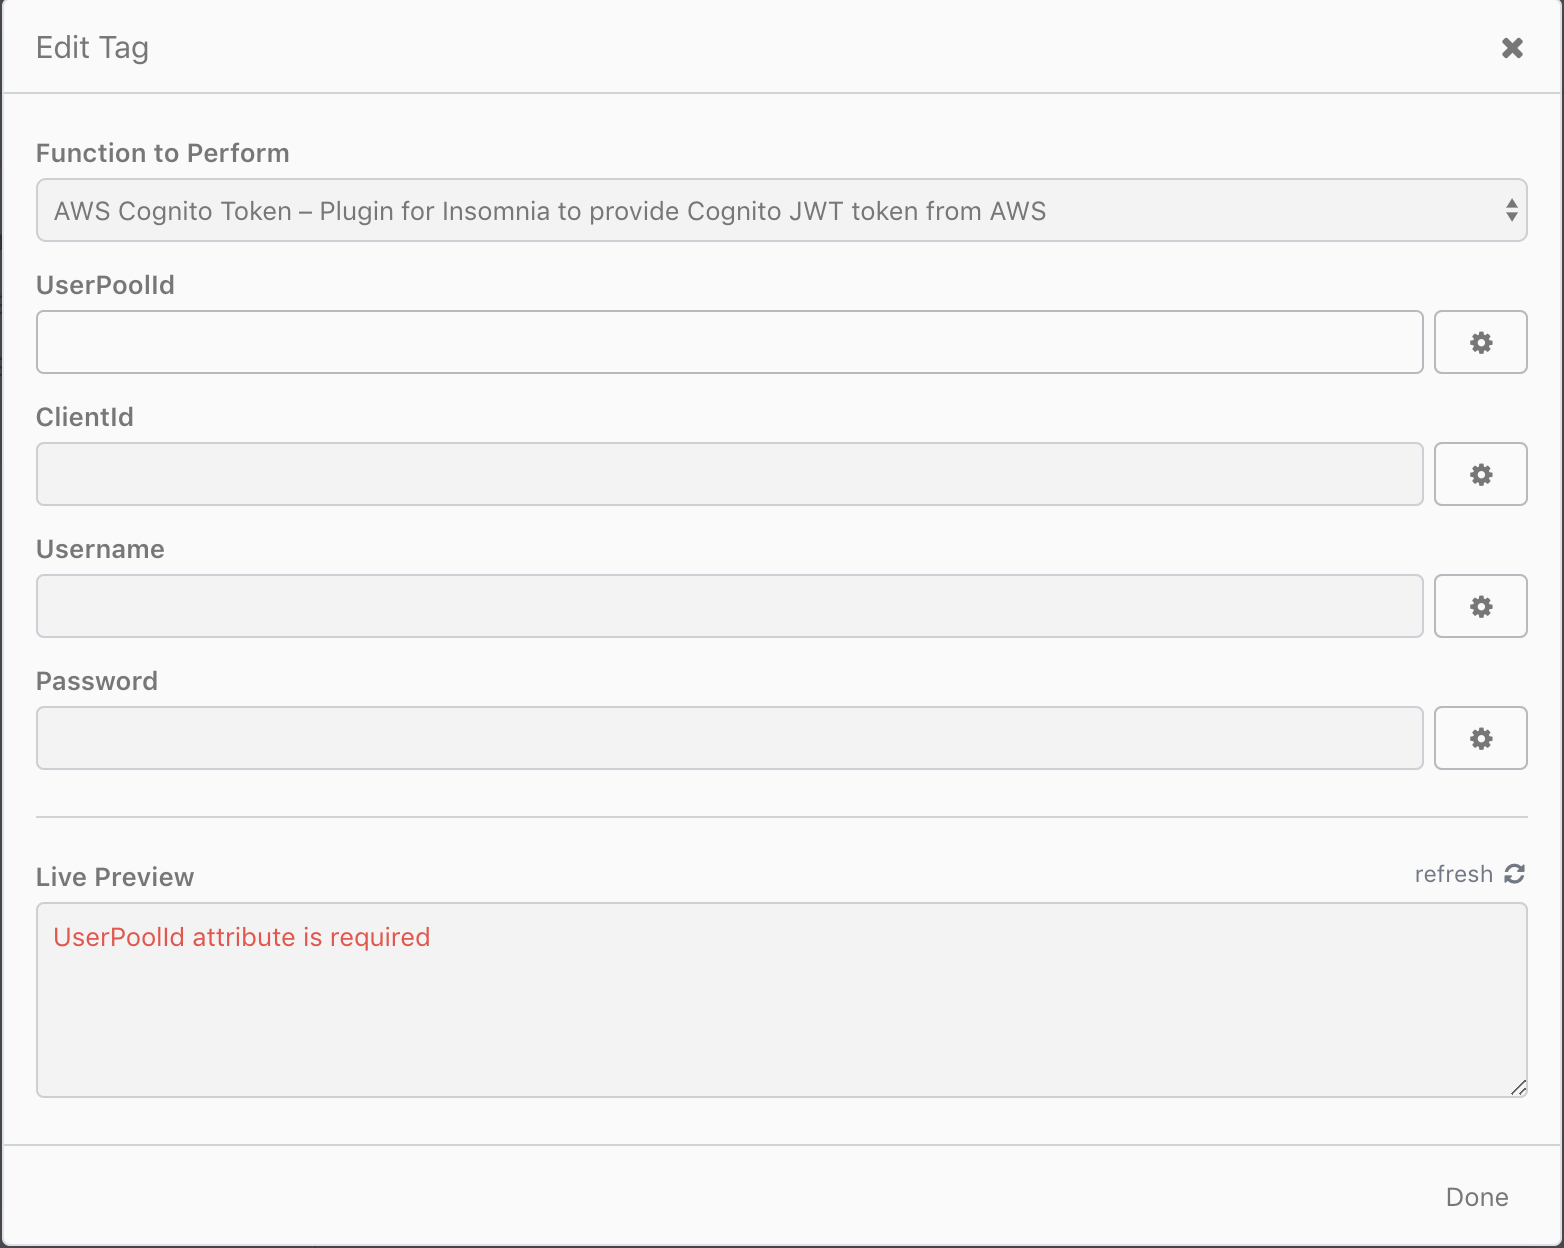
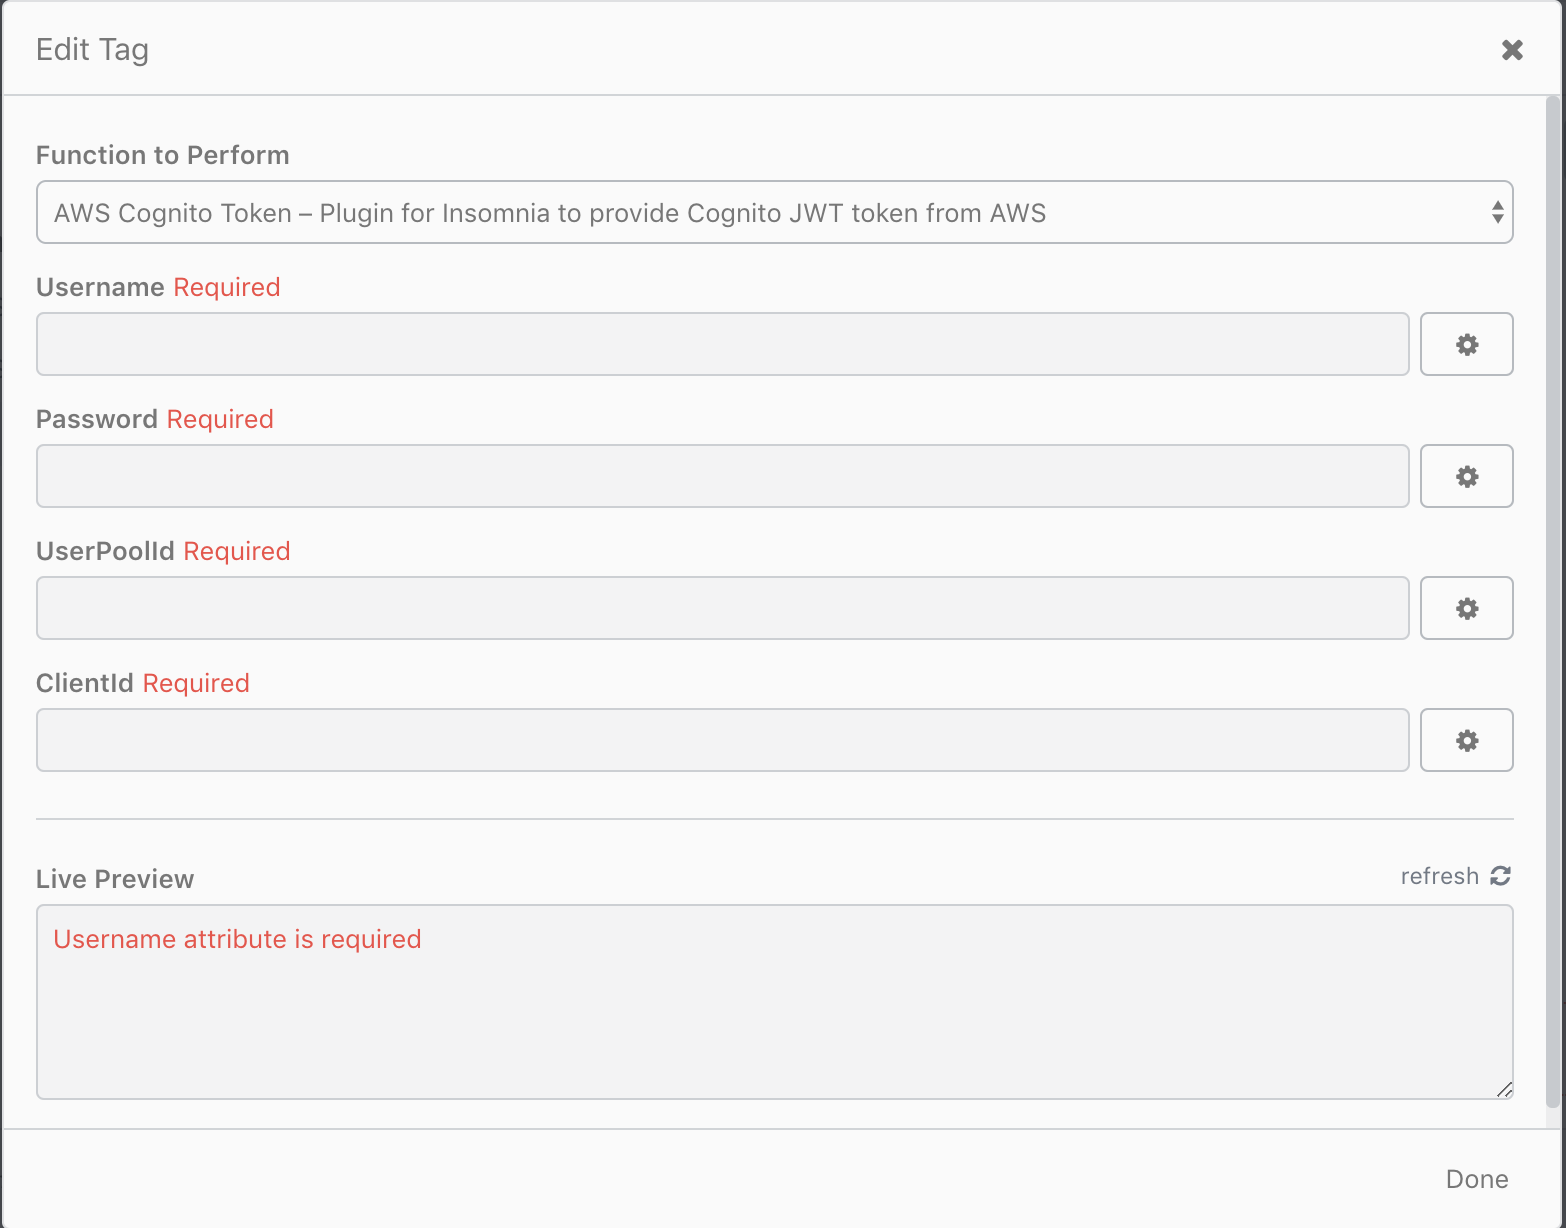
Change tag order and store key

Changed region(s): [[0.0, 0.0, 1.0, 1.0], [0.0307, 0.4023, 0.89, 0.4642], [0.0307, 0.0309, 0.0921, 0.0619]]

diff --git a/src/plugin.js b/src/plugin.js
@@ -3,7 +3,7 @@ const jwtDecode = require('jwt-decode');
 const CryptoJS = require('crypto-js')
 
 // Get JWT Token from Cognito
-const session = ({UserPoolId, ClientId, Username, Password}) => new Promise((resolve, reject) => {
+const session = ({ Username, Password, UserPoolId, ClientId }) => new Promise((resolve, reject) => {
   new AWSCognito.CognitoUser({
     Username,
     Pool: new AWSCognito.CognitoUserPool({
@@ -57,8 +57,8 @@ const errorToken = error => {
   };
   const stringifiedHeader = CryptoJS.enc.Utf8.parse(JSON.stringify(header));
   const encodedHeader = base64url(stringifiedHeader);
-  // If error we keep it for 5 min
-  const exp = (Date.now().valueOf() / 1000) + 300
+  // If error we keep it for 1 min
+  const exp = (Date.now().valueOf() / 1000) + 60
   const data = {
     error,
     exp
@@ -69,21 +69,22 @@ const errorToken = error => {
 }
 
 // Main run function
-const run = async (context, UserPoolId, ClientId, Username, Password) => {
-  if (!UserPoolId) {
-    throw new Error('UserPoolId attribute is required');
-  }
-  if (!ClientId) {
-    throw new Error('ClientId attribute is required');
-  }
+const run = async (context, Username, Password, UserPoolId, ClientId) => {
   if (!Username) {
     throw new Error('Username attribute is required');
   }
   if (!Password) {
     throw new Error('Password attribute is required');
   }
-  const data = JSON.stringify({ UserPoolId, ClientId, Username, Password })
-  const token = await context.store.getItem(data)
+  if (!UserPoolId) {
+    throw new Error('UserPoolId attribute is required');
+  }
+  if (!ClientId) {
+    throw new Error('ClientId attribute is required');
+  }
+
+  const key = [ Username, Password, UserPoolId, ClientId ].join('::')
+  const token = await context.store.getItem(key)
   if (token && validToken(token)) {
     if (jwtDecode(token).error){
       // Display error
@@ -93,16 +94,15 @@ const run = async (context, UserPoolId, ClientId, Username, Password) => {
     return token
   } else {
     // Compute a new token
-    const params = JSON.parse(data)
     try {
-      const token = await session(params)
-      await context.store.setItem(data, token)
+      const token = await session({ Username, Password, UserPoolId, ClientId})
+      await context.store.setItem(key, token)
       return token
     }
     catch(error){
       // To keep thing simle we create a fake JWT token with error message
       const token = errorToken(error.message)
-      await context.store.setItem(data, token)
+      await context.store.setItem(key, token)
       return error.message
     }
   }
@@ -114,21 +114,26 @@ module.exports.templateTags = [{
   description: 'Plugin for Insomnia to provide Cognito JWT token from AWS',
   args: [
     {
-      displayName: 'UserPoolId',
-      type: 'string'
-    },
-    {
-      displayName: 'ClientId',
-      type: 'string'
-    },
-    {
       displayName: 'Username',
-      type: 'string'
+      type: 'string',
+      validate: arg => (arg ? '' : 'Required')
     },
     {
       displayName: 'Password',
-      type: 'string'
+      type: 'string',
+      validate: arg => (arg ? '' : 'Required')
     },
+    {
+      displayName: 'UserPoolId',
+      type: 'string',
+      validate: arg => (arg ? '' : 'Required')
+    },
+    {
+      displayName: 'ClientId',
+      type: 'string',
+      validate: arg => (arg ? '' : 'Required')
+    },
+
   ],
   run
 }];

diff --git a/README.md b/README.md
@@ -1,6 +1,8 @@
 # insomnia-plugin-aws-cognito-token
 Insomnia plugin for AWS Cognito allowing you to fetch the JWT Token automatically and inject the token in the `Authorization` header.
 
+Note: version 0.10.0 changed the Tags order, you may have to reorder your Tags value.
+
 ## NPM
 [https://www.npmjs.com/package/insomnia-plugin-aws-cognito-token](https://www.npmjs.com/package/insomnia-plugin-aws-cognito-token)
 
